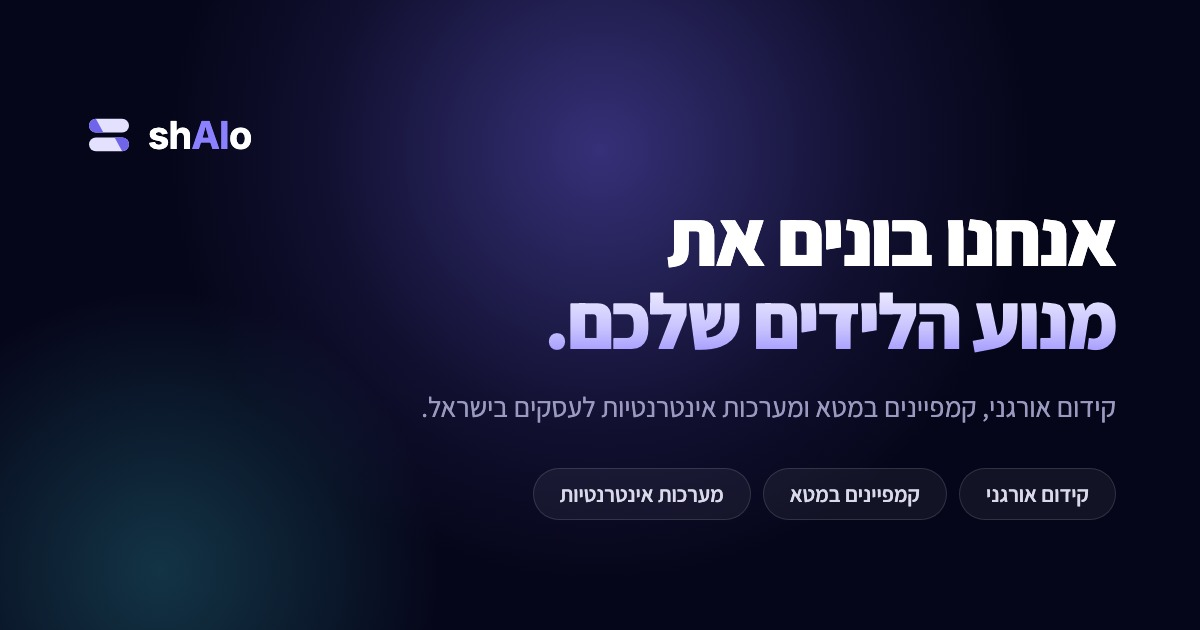
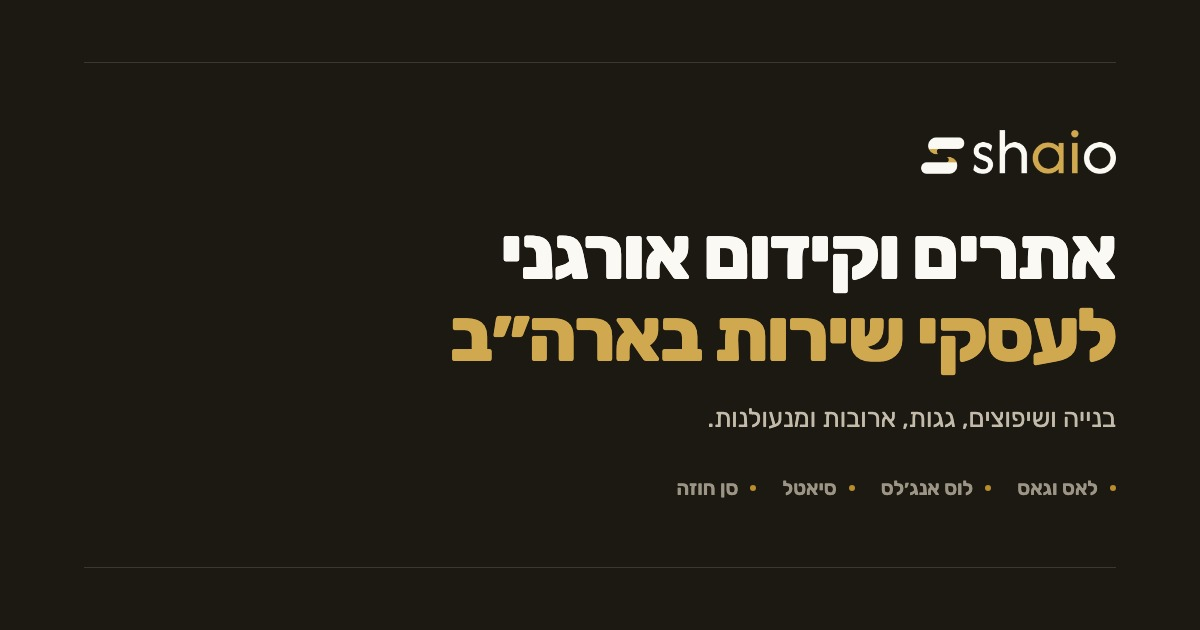
Replace the palette with warm charcoal and muted brass
The violet-on-white scheme read as a tech template. This moves to a warm
near-black, a restrained brass accent and a bone paper ground, and strips the
cues that make a page look machine-generated:

- radial violet glow and tinted gradient wash in the hero, now a flat ground
- coloured drop-shadows under buttons, now neutral
- pulsing dot badge, now a small-caps rule
- brass is the accent only: one CTA and small marks, ink carries the rest

Logo recoloured to match; the navy/violet master is kept at
public/logo-original.png. Favicon and OG image regenerated.
All text passes WCAG AA against the new grounds.

diff --git a/src/styles/global.css b/src/styles/global.css
@@ -6,34 +6,37 @@
    Palette taken from the logo PNG: navy #1C1D46, violet #6F64EA
    ============================================================ */
 @theme {
-  /* Ink — the logo navy, extended */
-  --color-ink-950: #101128;
-  --color-ink-900: #1C1D46; /* logo navy */
-  --color-ink-800: #2A2C5E;
-  --color-ink-700: #3D4076;
-  --color-ink-600: #565A92;
-  --color-ink-500: #6E72A6;
-  --color-ink-400: #8C90BC;
-  --color-ink-300: #B4B7D4;
-  --color-ink-200: #D8DAE9;
-  --color-ink-100: #EAEBF4;
-  --color-ink-50:  #F5F6FB;
+  /* Ink — warm near-black through to bone. Warm neutrals read classic;
+     cool greys read like a SaaS template. */
+  --color-ink-950: #12100C;
+  --color-ink-900: #1C1913;
+  --color-ink-800: #2C2820;
+  --color-ink-700: #3B362C;
+  --color-ink-600: #5A5347;
+  --color-ink-500: #7A7264;
+  --color-ink-400: #9C9484;
+  --color-ink-300: #C3BBA9;
+  --color-ink-200: #DED7C6;
+  --color-ink-100: #EDE8DC;
+  --color-ink-50:  #F6F3EA;
 
-  /* Violet — the logo accent */
-  --color-brand-700: #4A3FD0;
-  --color-brand-600: #5B4FE0;
-  --color-brand-500: #6F64EA; /* logo violet */
-  --color-brand-400: #8B80FF;
-  --color-brand-300: #ADA5FF;
-  --color-brand-200: #D2CDFF;
-  --color-brand-100: #EBE9FF;
-  --color-brand-50:  #F5F4FF;
+  /* Paper — the page ground. Not pure white; bone is warmer and calmer. */
+  --color-paper: #FBF9F3;
 
-  /* Signal colors, used sparingly on proof numbers */
-  --color-win-600: #0E9F6E;
-  --color-win-100: #DEF7EC;
-  --color-flame-500: #F2760C;
-  --color-flame-100: #FEF0E3;
+  /* Brass — one accent, used sparingly. Muted on purpose: a bright gold
+     reads as a luxury template, a brass reads as a real brand. */
+  --color-brand-700: #7C5F1C;
+  --color-brand-600: #997625;
+  --color-brand-500: #B98C2C;
+  --color-brand-400: #CFA850;
+  --color-brand-300: #E0C689;
+  --color-brand-200: #EEDCB4;
+  --color-brand-100: #F5EBD6;
+  --color-brand-50:  #FAF4E8;
+
+  /* Signals, deliberately desaturated to sit inside the palette */
+  --color-win-600: #4F6B43;
+  --color-win-100: #E6EDE1;
 
   --font-sans: "Rubik Variable", ui-sans-serif, system-ui, sans-serif;
 
@@ -55,7 +58,7 @@
   @media (prefers-reduced-motion: reduce) { html { scroll-behavior: auto; } }
 
   body {
-    background: #fff;
+    background: var(--color-paper);
     color: var(--color-ink-700);
     font-family: var(--font-sans);
     font-synthesis-weight: none;
@@ -73,10 +76,10 @@
   h4, h5, h6 { color: var(--color-ink-900); font-weight: 700; letter-spacing: -0.01em; line-height: 1.25; }
   p { line-height: 1.7; }
 
-  ::selection { background: var(--color-brand-200); color: var(--color-ink-900); }
+  ::selection { background: var(--color-brand-200); color: var(--color-ink-950); }
 
   :focus-visible {
-    outline: 3px solid var(--color-brand-500);
+    outline: 3px solid var(--color-ink-900);
     outline-offset: 2px;
     border-radius: 6px;
   }
@@ -110,39 +113,55 @@
   .btn:active { transform: scale(0.97); }
 
   .btn-primary {
-    background: var(--color-brand-500);
-    color: #fff;
-    box-shadow: 0 10px 30px -10px rgb(111 100 234 / 0.75);
+    background: var(--color-ink-900);
+    color: var(--color-paper);
+    box-shadow: 0 8px 22px -12px rgb(18 16 12 / 0.45);
   }
-  .btn-primary:hover { background: var(--color-brand-600); }
+  .btn-primary:hover { background: var(--color-ink-800); }
+
+  /* Brass is the accent, not the workhorse — reserved for the one CTA
+     that should catch the eye, and small marks. */
+  .btn-brass {
+    background: var(--color-brand-500);
+    color: var(--color-ink-950);
+    box-shadow: 0 8px 22px -12px rgb(18 16 12 / 0.4);
+  }
+  .btn-brass:hover { background: var(--color-brand-600); color: var(--color-paper); }
 
   .btn-dark { background: var(--color-ink-900); color: #fff; }
   .btn-dark:hover { background: var(--color-ink-800); }
 
   .btn-ghost {
-    background: #fff;
+    background: transparent;
     color: var(--color-ink-900);
     border: 1.5px solid var(--color-ink-200);
   }
   .btn-ghost:hover { border-color: var(--color-ink-900); }
 
   .card {
-    background: #fff;
+    background: #FFFFFF;
     border: 1px solid var(--color-ink-100);
     border-radius: var(--radius-card);
   }
 
+  /* A rule and small caps instead of a pill — quieter, and it stops the
+     page from opening with a badge like every AI-generated landing page. */
   .eyebrow {
     display: inline-flex;
     align-items: center;
-    gap: 0.5rem;
-    border-radius: 999px;
-    background: var(--color-brand-50);
-    border: 1px solid var(--color-brand-100);
-    color: var(--color-brand-600);
-    font-size: 0.8125rem;
-    font-weight: 600;
-    padding: 0.4rem 0.9rem;
+    gap: 0.6rem;
+    color: var(--color-brand-700);
+    font-size: 0.75rem;
+    font-weight: 700;
+    letter-spacing: 0.14em;
+    text-transform: uppercase;
+  }
+  .eyebrow::before,
+  .eyebrow::after {
+    content: "";
+    width: 1.75rem;
+    height: 1px;
+    background: var(--color-brand-300);
   }
 
   /* Reveal is gated on .js so a blocked script never leaves the page blank */
@@ -161,7 +180,7 @@
 
 @media (hover: hover) and (pointer: fine) {
   .lift { transition: transform 260ms var(--ease-out-strong), box-shadow 260ms var(--ease-out-strong); }
-  .lift:hover { transform: translateY(-4px); box-shadow: 0 22px 50px -24px rgb(28 29 70 / 0.32); }
+  .lift:hover { transform: translateY(-4px); box-shadow: 0 22px 50px -26px rgb(18 16 12 / 0.34); }
 }
 
 /* ============================================================

diff --git a/README.md b/README.md
@@ -31,8 +31,17 @@ npm run preview    # תצוגה מקדימה של הבילד
 
 ## עיצוב
 
-הפאלטה חולצה מקובץ הלוגו עצמו: נייבי `#1C1D46`, ויולט `#6F64EA`.
-פונט Rubik. שינוי הטוקנים ב-`global.css` משנה את כל האתר.
+פחם חם ופליז מאופק על נייר שמנת. פונט Rubik.
+שינוי הטוקנים ב-`global.css` משנה את כל האתר.
+
+| תפקיד | ערך |
+|---|---|
+| דיו (טקסט, כפתור ראשי) | `#1C1913` |
+| פליז (אקסנט, CTA) | `#B98C2C` |
+| נייר (רקע) | `#FBF9F3` |
+
+הלוגו נצבע מחדש לאותם שני צבעים. המקור בנייבי/סגול נשמר ב-`public/logo-original.png`
+כדי שאפשר יהיה לשנות פאלטה שוב בלי לאבד אותו.
 
 ## סביבות
 
